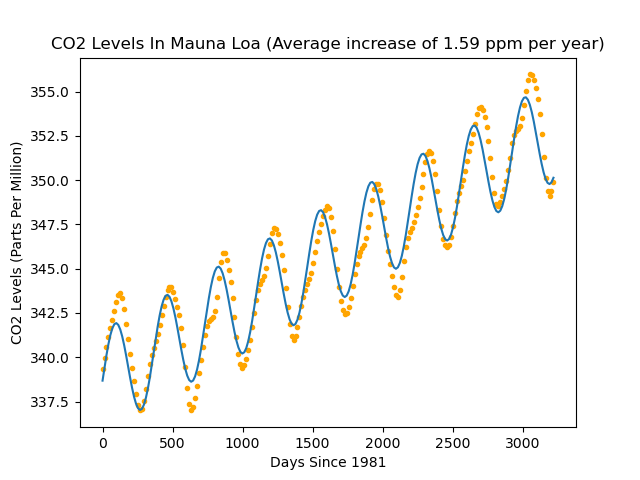
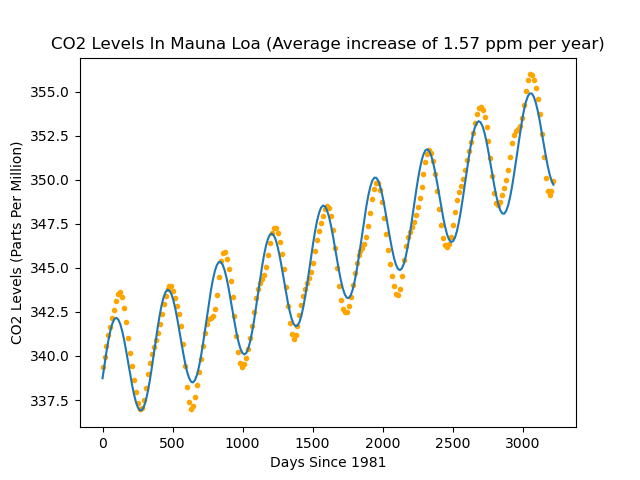
didn't remember to track everything, but also did not run into much trouble

diff --git a/python_programming_essentials/ProgrammingPythonEssentials/Exercise_Solutions/Exercise05/exercise05.py b/python_programming_essentials/ProgrammingPythonEssentials/Exercise_Solutions/Exercise05/exercise05.py
@@ -1,0 +1,27 @@
+"""
+Computes the volume of water in the tank described in Exercise 5.
+"""
+
+# Import the needed modules
+from pylab import *
+
+# Prompt the user for the height of the water in the tank.
+h = float(input("Enter the water height from bottom of tank in meters: "))
+
+# Set the dimensions of the tank
+r_1 = 8.0/2  # radius of the small bottom portion of the tank
+r_2 = 12.0/2 # radius of the large top portion of the tank
+h_1 = 6.0    # height of smaller bottom portion of the tank
+h_max = 10.0 # height of the top of the tank
+
+# Compute the volume of water and print the result
+if (h < 0.0):
+	print("Sorry, the height of the tank can't be less than 0.")
+elif (h <= h_1):
+	vol = pi*r_1**2*h
+	print("The volume of the water in the tank is %g m^3" % vol)
+elif (h <= h_max):
+	vol = pi*r_1**2*h_1 + pi*r_2**2*(h - h_1)
+	print("The volume of the water in the tank is %g m^3" % vol)
+else:
+	print("Sorry, the max height of the tank is %g m." % h_max)

diff --git a/python_programming_essentials/e7.py b/python_programming_essentials/e7.py
@@ -1,0 +1,32 @@
+"""
+This is a module contains functions to convert to and from cartesian to
+cylindrical polar coordinates.
+
+"""
+
+# The functions below need these sqrt and trig functions, so lets import them.
+from pylab import sqrt,arctan,cos,sin
+import scipy.constants as sc
+
+
+def xy2rth(x,y):
+    r = sqrt(x**2+y**2)
+
+    if x == 0:
+        if y > 0:
+            theta = sc.pi/2
+        elif y < 0:
+            theta = 3*sc.pi/2
+        else:
+            theta = 0
+    elif x > 0:
+        theta = arctan(y/x)
+    else:
+        theta = arctan(y/x) + sc.pi
+    return [r, theta]
+
+def rth2xy(r,theta):
+	"""Converts the polar coordinates r and theta to x and y."""
+	x = r*cos(theta)
+	y = r*sin(theta)
+	return [x, y]

diff --git a/python_programming_essentials/ProgrammingPythonEssentials/Exercise_Solutions/Exercise07/mypolar_Ex07.py b/python_programming_essentials/ProgrammingPythonEssentials/Exercise_Solutions/Exercise07/mypolar_Ex07.py
@@ -1,0 +1,22 @@
+"""
+This is a module contains functions to convert to and from cartesian to 
+cylindrical polar coordinates.
+
+"""
+
+# The functions below need these sqrt and trig functions, so lets import them.
+from pylab import sqrt,arctan2,cos,sin
+
+# Define the cartesian to polar coordinate transformation function
+def xy2rth(x, y):
+	"""Converts x and y coordinates to polar coordinates, r and theta."""
+	r = sqrt(x**2 + y**2)
+	theta = arctan2(y,x)  # modified to use the arctan2() function
+	return [r, theta]
+
+# Define the polar coordinate to cartesian coordinate function	
+def rth2xy(r,theta):
+	"""Converts the polar coordinates r and theta to x and y."""
+	x = r*cos(theta)
+	y = r*sin(theta)
+	return [x, y]

diff --git a/python_programming_essentials/ProgrammingPythonEssentials/Examples_and_Data/if_test.py b/python_programming_essentials/ProgrammingPythonEssentials/Examples_and_Data/if_test.py
@@ -1,0 +1,20 @@
+"""
+if_test.py
+Program to illustrate how if statements work. It uses input() to read strings from
+the keyboard then tests the input string with an if statement to determine the output.
+"""
+
+colour = input("What is your favorite color? ")
+warm_colours = ["red","yellow","orange"]
+cool_colours = ["blue", "green", "purple"]
+if (colour == "black"):
+	print("Your favorite color is Black.")
+	print(" That is an unusual favorite color.")	
+elif (colour == "white"):
+	print("Is white really a color?")
+elif (colour in warm_colours):
+	print("You like warm colors.")
+elif (colour in cool_colours):
+	print("You like cool colors.")
+else:
+	print("Sorry, I don't know the color '%s'." % colour)	

diff --git a/python_programming_essentials/ProgrammingPythonEssentials/Examples_and_Data/for_test.py b/python_programming_essentials/ProgrammingPythonEssentials/Examples_and_Data/for_test.py
@@ -1,0 +1,28 @@
+"""
+for_test.py
+Program to illustrate how for statements work. The program prints the x and y 
+positions of a projectile launched at a 45 deg angle.
+"""
+
+vx = 50.0
+vy = 50.0
+g = 9.8
+
+print(' x \t y ')
+for t in range(1,11):  # range(1,11) creates the list [1,2,3,4,5,6,7,8,9,10]
+	x = vx*t
+	y = vy*t - 0.5*g*t**2
+	print('%g \t %g' % (x,y))
+print('\n')
+
+# Here is another way to generate an idential output using numpy
+# arrays
+from pylab import *
+
+t = linspace(1,10,10) # creates a numpy array
+x = vx*t
+y = vy*t - 0.5*g*t**2
+
+print(' x \t y ')
+for idx in range(0,10):
+	print('%g \t %g' % (x[idx], y[idx]))

diff --git a/python_programming_essentials/ProgrammingPythonEssentials/Examples_and_Data/mypolar.py b/python_programming_essentials/ProgrammingPythonEssentials/Examples_and_Data/mypolar.py
@@ -1,0 +1,20 @@
+"""
+This is a module contains functions to convert to and from cartesian to 
+cylindrical polar coordinates.
+
+"""
+
+# The functions below need these sqrt and trig functions, so lets import them.
+from pylab import sqrt,arctan,cos,sin 
+
+def xy2rth(x, y):
+	"""Converts x and y coordinates to polar coordinates, r and theta."""
+	r = sqrt(x**2 + y**2)
+	theta = arctan(y/x)
+	return [r, theta]
+	
+def rth2xy(r,theta):
+	"""Converts the polar coordinates r and theta to x and y."""
+	x = r*cos(theta)
+	y = r*sin(theta)
+	return [x, y]

diff --git a/python_programming_essentials/ProgrammingPythonEssentials/Exercise_Solutions/Exercise06/exercise06.py b/python_programming_essentials/ProgrammingPythonEssentials/Exercise_Solutions/Exercise06/exercise06.py
@@ -1,0 +1,15 @@
+"""
+exercise06.py Program to sum the series given in Exercise 6.
+"""
+
+# Prompt the user for the value of n
+n = int(input('Enter the value of n: '))
+
+# Sum the series with a for statement
+sum = 0  # initialize the value of the sum
+for k in range(1,n+1):
+	sum = sum + (-1.0)**k * k / 2.0**k
+	
+# Display the result
+print("\nThe sum of (-1.0)**k * k / 2.0**k from k = 1 to k = %d = %g" % (n,sum))
+	

diff --git a/python_programming_essentials/ProgrammingPythonEssentials/Examples_and_Data/input_test.py b/python_programming_essentials/ProgrammingPythonEssentials/Examples_and_Data/input_test.py
@@ -1,0 +1,13 @@
+"""
+input_test.py
+Program to test the input() command.
+"""
+
+# input a string
+name = input("Enter your name: ")
+print("Your name is %s." % (name))
+
+# input() outputs an object whose type is determined by the input
+x = float(input("Enter a floating point number: "))
+print("Your number is:")
+print(x)

diff --git a/Quick_Tour_Quiz/q1.py b/Quick_Tour_Quiz/q1.py
@@ -40,7 +40,7 @@ y = np.array([5-2*i+4*np.sin(1.2*i)+0.1*random.randrange(1,10) for i in x])
 
 
 #x_b = np.linspace(0,4*sc.pi,100)
-a = 2*sc.pi/365.25
+a = 2*sc.pi/365
 b = ls_a_x_sinx(t_array,ppm_mauna,a)
 print(f'b (solution to AT.A.[b] = AT.y): {b}')
 y_b = np.array([b[0] + b[1]*i + b[2]*np.sin(a*i) for i in t_array])

diff --git a/python_programming_essentials/ProgrammingPythonEssentials/Examples_and_Data/while_test.py b/python_programming_essentials/ProgrammingPythonEssentials/Examples_and_Data/while_test.py
@@ -1,0 +1,11 @@
+"""
+while_test.py
+Program to illustrate how a while statement works.
+"""
+
+passwd = ''     # set the initial value of the password to an incorrect result
+
+while (passwd != 'swordfish'):
+	passwd = input('What is the secret password: ')
+	
+print('\nYeah! You know the secret password.')

diff --git a/python_programming_essentials/e5.py b/python_programming_essentials/e5.py
@@ -1,0 +1,13 @@
+def volume(h):
+    if h > 10:
+        return f'invalid height {h}'
+    elif h > 6:
+        v = 6*8 + 12*(h-6)
+    else:
+        v = 6*h
+
+    return f'your height is: {v}'
+
+if __name__ == '__main__':
+    h = float(input("What height?"))
+    print(volume(h))

diff --git a/python_programming_essentials/ProgrammingPythonEssentials/Examples_and_Data/sumints.py b/python_programming_essentials/ProgrammingPythonEssentials/Examples_and_Data/sumints.py
@@ -1,0 +1,6 @@
+def sumints(n):
+   """Return the sum of the first n integers"""
+   sum = 0
+   for idx in range(1,n+1):
+      sum = sum + idx
+   return sum
